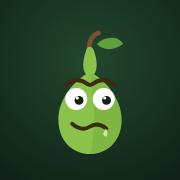
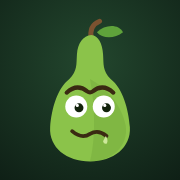
Reshape the mascot into a true pear silhouette
The body reads unmistakably as a pear now: a taller, slimmer neck rising
to the stem, a pinched waist, and a bigger, rounder bottom bulb. The face
moves down onto the bulb where it fits the new outline; the stem and leaf
sit up on the slim crown.

Everything attached follows the new geometry: unibrow, eyes/pupils (the
look-at-cursor and blink transforms are relative, so they carry over),
mouths and drool for all three moods, blush cheeks, sweat drop, rot spots
and stink lines, the waving arm, yawn mouth, sunglasses, party hat and
all four seasonal outfits — plus the CSS transform origins they animate
around. Lenticels re-scattered along the new edge, gloss highlight moved
onto the bulb.

The app icon SVG gets the same silhouette and the 180/192/512 PNGs are
re-rendered from it. Service worker cache v67. All 72 checks green.

Claude-Session: https://claude.ai/code/session_017d9cbJJ4cKEAZ38GrGQcBx

Changed region(s): [[0.2778, 0.0833, 0.7222, 0.9167]]

diff --git a/kulpio_app.html b/kulpio_app.html
@@ -128,7 +128,7 @@ button,select,.tab,.prod-item,.sheet-row,.set-row{touch-action:manipulation}
 .pear-eat{position:absolute;left:50%;top:-4%;font-size:22px;pointer-events:none;z-index:5;animation:eatIn .6s ease forwards}
 @keyframes eatIn{0%{opacity:0;transform:translate(-50%,-10px) scale(1.1)}30%{opacity:1}100%{opacity:0;transform:translate(-50%,48px) scale(.3)}}
 /* party hat + confetti when he celebrates clearing all expiring items */
-.assistant-icon .party-hat{opacity:0;transform-box:view-box;transform-origin:84px 92px;transform:scale(.4) rotate(-12deg);transition:opacity .3s ease,transform .35s cubic-bezier(.34,1.56,.64,1)}
+.assistant-icon .party-hat{opacity:0;transform-box:view-box;transform-origin:96px 64px;transform:scale(.4) rotate(-12deg);transition:opacity .3s ease,transform .35s cubic-bezier(.34,1.56,.64,1)}
 .assistant-icon.party .party-hat{opacity:1;transform:scale(1) rotate(0)}
 .confetti{position:absolute;left:50%;top:28%;width:8px;height:8px;border-radius:2px;pointer-events:none;z-index:7;animation:confettiFly 1.1s ease-out forwards;animation-delay:var(--d,0s)}
 @keyframes confettiFly{0%{opacity:0;transform:translate(-50%,0) rotate(0)}12%{opacity:1}100%{opacity:0;transform:translate(calc(-50% + var(--x,0px)),-72px) rotate(var(--r,180deg))}}
@@ -136,7 +136,7 @@ button,select,.tab,.prod-item,.sheet-row,.set-row{touch-action:manipulation}
 .pear-tear{position:absolute;left:44%;top:40%;font-size:15px;pointer-events:none;z-index:6;animation:tearDrop 1.2s ease-in forwards}
 @keyframes tearDrop{0%{opacity:0;transform:translateY(0) scale(.6)}25%{opacity:1}100%{opacity:.25;transform:translateY(44px) scale(1)}}
 /* sunglasses at a savings milestone */
-.assistant-icon .shades{opacity:0;transform-box:view-box;transform-origin:110px 122px;transform:translateY(-16px);transition:opacity .25s ease,transform .4s cubic-bezier(.34,1.56,.64,1)}
+.assistant-icon .shades{opacity:0;transform-box:view-box;transform-origin:110px 132px;transform:translateY(-16px);transition:opacity .25s ease,transform .4s cubic-bezier(.34,1.56,.64,1)}
 .assistant-icon.cool .shades{opacity:1;transform:translateY(0)}
 /* spin when you restyle him (accent / background) */
 .assistant-icon.spin{animation:pearSpin .7s ease}
@@ -214,7 +214,7 @@ button,select,.tab,.prod-item,.sheet-row,.set-row{touch-action:manipulation}
 .pear-bubble::after{content:"";position:absolute;top:100%;left:50%;transform:translateX(-50%);border:6px solid transparent;border-top-color:var(--surface-2)}
 .pear-spark{position:absolute;left:50%;top:18%;font-size:20px;pointer-events:none;z-index:6;animation:sparkUp .82s ease forwards}
 @keyframes sparkUp{0%{opacity:0;transform:translate(-50%,0) scale(.5)}25%{opacity:1}100%{opacity:0;transform:translate(-50%,-42px) scale(1.25)}}
-.pear-arm{opacity:0;transform-box:view-box;transform-origin:148px 150px}
+.pear-arm{opacity:0;transform-box:view-box;transform-origin:154px 156px}
 .assistant-icon.wave .pear-arm{animation:pearWave 1.7s ease}
 @keyframes pearWave{0%{opacity:0;transform:rotate(-6deg)}10%{opacity:1;transform:rotate(-26deg)}26%{transform:rotate(8deg)}42%{transform:rotate(-24deg)}58%{transform:rotate(8deg)}74%{transform:rotate(-22deg)}88%{opacity:1;transform:rotate(-8deg)}100%{opacity:0;transform:rotate(-6deg)}}
 .assistant-icon .eye{transform-box:fill-box;transform-origin:center}
@@ -649,114 +649,115 @@ button,select,.tab,.prod-item,.sheet-row,.set-row{touch-action:manipulation}
     <div class="pear-bubble" id="pearBubble" role="status" aria-live="polite"></div>
     <div class="pear-ground" aria-hidden="true"></div>
     <svg class="assistant-icon fresh" id="pearIcon" viewBox="0 0 220 220" role="button" tabindex="0" aria-label="Kulpio" onclick="pokePear()" onkeydown="if(event.key==='Enter'||event.key===' '){event.preventDefault();pokePear()}">
-      <!-- stem + leaf -->
-      <path d="M110 54 C107 40 112 30 122 26" fill="none" stroke="#7B5230" stroke-width="7" stroke-linecap="round"/>
-      <path d="M120 42 C132 30 152 30 158 42 C146 52 128 52 120 42 Z" fill="#5FA23B"/>
-      <path d="M122 43 Q140 39 157 40" fill="none" stroke="#437a2a" stroke-width="1.5" stroke-linecap="round"/>
-      <path d="M132 41 l5 5 M142 39 l5 4.5" fill="none" stroke="#437a2a" stroke-width="1.1" stroke-linecap="round"/>
-      <!-- pear body -->
-      <path class="pear-body" d="M110 48 C126 49 136 62 138 90 C140 114 158 128 160 158 C162 187 140 207 110 207 C80 207 58 187 60 158 C62 128 80 114 82 90 C84 62 94 49 110 48 Z"/>
-      <path class="pear-shade" d="M110 90 C130 100 152 124 158 158 C162 187 140 207 110 207 C118 178 118 130 110 90 Z" opacity=".22"/>
+      <!-- stem + leaf (up on the slim crown) -->
+      <path d="M112 34 C109 20 114 12 124 8" fill="none" stroke="#7B5230" stroke-width="7" stroke-linecap="round"/>
+      <path d="M120 24 C132 12 152 12 158 24 C146 34 128 34 120 24 Z" fill="#5FA23B"/>
+      <path d="M122 25 Q140 21 157 22" fill="none" stroke="#437a2a" stroke-width="1.5" stroke-linecap="round"/>
+      <path d="M132 23 l5 5 M142 21 l5 4.5" fill="none" stroke="#437a2a" stroke-width="1.1" stroke-linecap="round"/>
+      <!-- pear body: tall slim neck, a pinched waist, then a big round bottom -->
+      <path class="pear-body" d="M112 28 C122 29 128 40 129 56 C130 70 128 80 140 92 C158 106 166 136 168 162 C170 192 144 212 110 212 C76 212 50 192 52 162 C54 136 62 106 80 92 C92 80 90 70 91 56 C92 40 100 29 112 28 Z"/>
+      <path class="pear-shade" d="M110 92 C132 104 156 128 162 160 C166 190 142 212 110 212 C118 182 118 134 110 92 Z" opacity=".22"/>
       <!-- glossy highlight -->
-      <ellipse class="pear-gloss" cx="86" cy="102" rx="9" ry="14" fill="#ffffff" opacity=".17" transform="rotate(-16 86 102)"/>
+      <ellipse class="pear-gloss" cx="82" cy="122" rx="9" ry="15" fill="#ffffff" opacity=".17" transform="rotate(-14 82 122)"/>
       <!-- skin lenticels (little pear speckles), fixed colour so they read on any mood -->
       <g fill="#4a3a1e" opacity=".16">
-        <circle cx="76" cy="114" r="1.5"/><circle cx="144" cy="112" r="1.5"/>
-        <circle cx="68" cy="140" r="1.7"/><circle cx="152" cy="138" r="1.7"/>
-        <circle cx="64" cy="158" r="1.6"/><circle cx="156" cy="156" r="1.6"/>
-        <circle cx="84" cy="176" r="1.6"/><circle cx="136" cy="176" r="1.6"/>
-        <circle cx="102" cy="188" r="1.5"/><circle cx="120" cy="186" r="1.5"/>
-        <circle cx="110" cy="196" r="1.4"/>
+        <circle cx="108" cy="60" r="1.3"/><circle cx="118" cy="74" r="1.3"/>
+        <circle cx="72" cy="124" r="1.5"/><circle cx="148" cy="122" r="1.5"/>
+        <circle cx="64" cy="146" r="1.7"/><circle cx="156" cy="144" r="1.7"/>
+        <circle cx="60" cy="164" r="1.6"/><circle cx="160" cy="162" r="1.6"/>
+        <circle cx="84" cy="184" r="1.6"/><circle cx="136" cy="184" r="1.6"/>
+        <circle cx="102" cy="196" r="1.5"/><circle cx="120" cy="194" r="1.5"/>
+        <circle cx="110" cy="204" r="1.4"/>
       </g>
       <!-- unibrow (Rick-style, always on) -->
-      <path d="M74 102 Q90 88 106 100 Q110 103 114 100 Q130 88 146 102" fill="none" stroke="#3a2a12" stroke-width="6" stroke-linecap="round" stroke-linejoin="round"/>
+      <path d="M76 112 Q91 98 106 110 Q110 113 114 110 Q129 98 144 112" fill="none" stroke="#3a2a12" stroke-width="6" stroke-linecap="round" stroke-linejoin="round"/>
       <!-- blush cheeks: fade in when you tickle (tap) him a lot -->
       <g class="cheeks">
-        <ellipse cx="80" cy="146" rx="11" ry="7" fill="#ff7a90"/>
-        <ellipse cx="140" cy="146" rx="11" ry="7" fill="#ff7a90"/>
+        <ellipse cx="80" cy="156" rx="11" ry="7" fill="#ff7a90"/>
+        <ellipse cx="140" cy="156" rx="11" ry="7" fill="#ff7a90"/>
       </g>
       <!-- FRESH: smug, drooling grin -->
       <g class="mood mood-fresh">
-        <g class="eye"><circle cx="90" cy="122" r="16" fill="#fff"/><circle class="pupil" cx="94" cy="124" r="6.5" fill="#12220c"/><circle cx="91.5" cy="120.5" r="2.3" fill="#fff"/></g>
-        <g class="eye"><circle cx="130" cy="122" r="16" fill="#fff"/><circle class="pupil" cx="134" cy="124" r="6.5" fill="#12220c"/><circle cx="131.5" cy="120.5" r="2.3" fill="#fff"/></g>
-        <path class="mouth" d="M84 158 Q98 170 110 162 Q122 155 134 165" fill="none" stroke="#3a2a12" stroke-width="5.5" stroke-linecap="round"/>
-        <path class="mouth" d="M133 165 q4 6 1.5 11 q-4.5 1.5 -5.5 -3.5 Z" fill="#cde89b"/>
+        <g class="eye"><circle cx="90" cy="132" r="16" fill="#fff"/><circle class="pupil" cx="94" cy="134" r="6.5" fill="#12220c"/><circle cx="91.5" cy="130.5" r="2.3" fill="#fff"/></g>
+        <g class="eye"><circle cx="130" cy="132" r="16" fill="#fff"/><circle class="pupil" cx="134" cy="134" r="6.5" fill="#12220c"/><circle cx="131.5" cy="130.5" r="2.3" fill="#fff"/></g>
+        <path class="mouth" d="M84 168 Q98 180 110 172 Q122 165 134 175" fill="none" stroke="#3a2a12" stroke-width="5.5" stroke-linecap="round"/>
+        <path class="mouth" d="M133 175 q4 6 1.5 11 q-4.5 1.5 -5.5 -3.5 Z" fill="#cde89b"/>
       </g>
       <!-- WARN: worried, sweating squiggle -->
       <g class="mood mood-warn">
-        <g class="eye"><circle cx="90" cy="122" r="16" fill="#fff"/><circle class="pupil" cx="90" cy="125" r="6" fill="#12220c"/></g>
-        <g class="eye"><circle cx="130" cy="122" r="16" fill="#fff"/><circle class="pupil" cx="130" cy="125" r="6" fill="#12220c"/></g>
-        <path class="mouth" d="M84 164 Q92 156 100 163 Q108 170 116 163 Q124 156 132 164" fill="none" stroke="#4a3410" stroke-width="5" stroke-linecap="round"/>
-        <path d="M152 92 c-6 9 -9 13 -9 17 a9 9 0 0 0 18 0 c0 -4 -3 -8 -9 -17 Z" fill="#7EC8F2"/>
+        <g class="eye"><circle cx="90" cy="132" r="16" fill="#fff"/><circle class="pupil" cx="90" cy="135" r="6" fill="#12220c"/></g>
+        <g class="eye"><circle cx="130" cy="132" r="16" fill="#fff"/><circle class="pupil" cx="130" cy="135" r="6" fill="#12220c"/></g>
+        <path class="mouth" d="M84 174 Q92 166 100 173 Q108 180 116 173 Q124 166 132 174" fill="none" stroke="#4a3410" stroke-width="5" stroke-linecap="round"/>
+        <path d="M154 106 c-6 9 -9 13 -9 17 a9 9 0 0 0 18 0 c0 -4 -3 -8 -9 -17 Z" fill="#7EC8F2"/>
       </g>
       <!-- ROTTEN: dead X-eyes, queasy tongue, spots + stink -->
       <g class="mood mood-rotten">
         <g stroke="#2b1d0b" stroke-width="5" stroke-linecap="round">
-          <line x1="82" y1="114" x2="98" y2="130"/><line x1="98" y1="114" x2="82" y2="130"/>
-          <line x1="122" y1="114" x2="138" y2="130"/><line x1="138" y1="114" x2="122" y2="130"/>
+          <line x1="82" y1="124" x2="98" y2="140"/><line x1="98" y1="124" x2="82" y2="140"/>
+          <line x1="122" y1="124" x2="138" y2="140"/><line x1="138" y1="124" x2="122" y2="140"/>
         </g>
-        <path class="mouth" d="M84 162 Q96 172 108 163 Q120 154 134 166" fill="none" stroke="#2b1d0b" stroke-width="5" stroke-linecap="round"/>
-        <path class="mouth" d="M105 165 q6 15 12 2 Z" fill="#7f8f38"/>
+        <path class="mouth" d="M84 172 Q96 182 108 173 Q120 164 134 176" fill="none" stroke="#2b1d0b" stroke-width="5" stroke-linecap="round"/>
+        <path class="mouth" d="M105 175 q6 15 12 2 Z" fill="#7f8f38"/>
         <g fill="#5a4a25" opacity=".85">
-          <circle cx="86" cy="170" r="8"/><circle cx="128" cy="178" r="10"/>
-          <circle cx="104" cy="190" r="6"/><circle cx="142" cy="150" r="7"/>
+          <circle cx="84" cy="178" r="8"/><circle cx="128" cy="186" r="10"/>
+          <circle cx="104" cy="198" r="6"/><circle cx="146" cy="158" r="7"/>
         </g>
-        <path d="M150 68 q7 -8 0 -16 q-7 -8 0 -16" fill="none" stroke="#9aa06a" stroke-width="3" stroke-linecap="round" opacity=".7"/>
-        <path d="M168 76 q7 -8 0 -16 q-7 -8 0 -16" fill="none" stroke="#9aa06a" stroke-width="3" stroke-linecap="round" opacity=".5"/>
+        <path d="M144 52 q7 -8 0 -16 q-7 -8 0 -16" fill="none" stroke="#9aa06a" stroke-width="3" stroke-linecap="round" opacity=".7"/>
+        <path d="M162 60 q7 -8 0 -16 q-7 -8 0 -16" fill="none" stroke="#9aa06a" stroke-width="3" stroke-linecap="round" opacity=".5"/>
       </g>
       <!-- waving arm: greets you when the app opens, then tucks away -->
       <g class="pear-arm">
-        <path class="arm-limb" d="M146 152 Q170 140 182 116" fill="none" stroke-width="13" stroke-linecap="round"/>
-        <circle class="arm-hand" cx="184" cy="112" r="12"/>
-        <path class="arm-fingers" d="M176 105 l3 -8 M185 102 l1 -9 M194 105 l6 -6" fill="none" stroke-width="5" stroke-linecap="round"/>
+        <path class="arm-limb" d="M152 158 Q176 146 186 122" fill="none" stroke-width="13" stroke-linecap="round"/>
+        <circle class="arm-hand" cx="188" cy="118" r="12"/>
+        <path class="arm-fingers" d="M180 111 l3 -8 M189 108 l1 -9 M198 111 l6 -6" fill="none" stroke-width="5" stroke-linecap="round"/>
       </g>
       <!-- yawn mouth: plays when the fridge is empty -->
       <g class="yawn-mouth">
-        <ellipse cx="110" cy="165" rx="16" ry="18" fill="#3a2a12"/>
-        <ellipse cx="110" cy="174" rx="10" ry="7" fill="#7f8f38"/>
+        <ellipse cx="110" cy="175" rx="16" ry="18" fill="#3a2a12"/>
+        <ellipse cx="110" cy="184" rx="10" ry="7" fill="#7f8f38"/>
       </g>
       <!-- party hat: pops on when you clear out all expiring items -->
       <g class="party-hat">
-        <polygon points="84,50 70,94 102,88" fill="#ff5aa5"/>
-        <polygon points="84,50 78,66 88,64" fill="#ffd166"/>
-        <circle cx="84" cy="49" r="6" fill="#4de1c1"/>
-        <circle cx="80" cy="76" r="3.4" fill="#fff" opacity=".95"/>
-        <circle cx="92" cy="83" r="3.4" fill="#7EC8F2" opacity=".95"/>
+        <polygon points="96,22 82,66 114,60" fill="#ff5aa5"/>
+        <polygon points="96,22 90,38 100,36" fill="#ffd166"/>
+        <circle cx="96" cy="21" r="6" fill="#4de1c1"/>
+        <circle cx="92" cy="48" r="3.4" fill="#fff" opacity=".95"/>
+        <circle cx="104" cy="55" r="3.4" fill="#7EC8F2" opacity=".95"/>
       </g>
       <!-- sunglasses: slide on at a savings milestone -->
       <g class="shades">
-        <rect x="73" y="112" width="34" height="19" rx="7" fill="#15151b"/>
-        <rect x="113" y="112" width="34" height="19" rx="7" fill="#15151b"/>
-        <rect x="105" y="118" width="10" height="4" rx="2" fill="#15151b"/>
-        <path d="M73 117 L56 110" fill="none" stroke="#15151b" stroke-width="4" stroke-linecap="round"/>
-        <path d="M147 117 L164 110" fill="none" stroke="#15151b" stroke-width="4" stroke-linecap="round"/>
-        <rect x="78" y="116" width="9" height="4" rx="2" fill="#fff" opacity=".22"/>
-        <rect x="118" y="116" width="9" height="4" rx="2" fill="#fff" opacity=".22"/>
+        <rect x="73" y="122" width="34" height="19" rx="7" fill="#15151b"/>
+        <rect x="113" y="122" width="34" height="19" rx="7" fill="#15151b"/>
+        <rect x="105" y="128" width="10" height="4" rx="2" fill="#15151b"/>
+        <path d="M73 127 L56 120" fill="none" stroke="#15151b" stroke-width="4" stroke-linecap="round"/>
+        <path d="M147 127 L164 120" fill="none" stroke="#15151b" stroke-width="4" stroke-linecap="round"/>
+        <rect x="78" y="126" width="9" height="4" rx="2" fill="#fff" opacity=".22"/>
+        <rect x="118" y="126" width="9" height="4" rx="2" fill="#fff" opacity=".22"/>
       </g>
       <!-- seasonal outfits, shown by the calendar date -->
       <g class="summer">
-        <path d="M84 64 Q106 32 128 64 Z" fill="#f0d38a"/>
-        <ellipse cx="106" cy="65" rx="42" ry="9" fill="#e3bd63"/>
-        <path d="M85 63 Q106 55 127 63" fill="none" stroke="#ff8fb0" stroke-width="6" stroke-linecap="round"/>
+        <path d="M90 46 Q110 16 130 46 Z" fill="#f0d38a"/>
+        <ellipse cx="110" cy="47" rx="38" ry="8" fill="#e3bd63"/>
+        <path d="M91 45 Q110 37 129 45" fill="none" stroke="#ff8fb0" stroke-width="6" stroke-linecap="round"/>
       </g>
       <g class="flower">
-        <circle cx="150" cy="38" r="4.5" fill="#ff8fb0"/>
-        <circle cx="159" cy="45" r="4.5" fill="#ff8fb0"/>
-        <circle cx="155" cy="55" r="4.5" fill="#ff8fb0"/>
-        <circle cx="144" cy="55" r="4.5" fill="#ff8fb0"/>
-        <circle cx="141" cy="45" r="4.5" fill="#ff8fb0"/>
-        <circle cx="150" cy="47" r="5" fill="#ffd166"/>
+        <circle cx="140" cy="30" r="4.5" fill="#ff8fb0"/>
+        <circle cx="149" cy="37" r="4.5" fill="#ff8fb0"/>
+        <circle cx="145" cy="47" r="4.5" fill="#ff8fb0"/>
+        <circle cx="134" cy="47" r="4.5" fill="#ff8fb0"/>
+        <circle cx="131" cy="37" r="4.5" fill="#ff8fb0"/>
+        <circle cx="140" cy="39" r="5" fill="#ffd166"/>
       </g>
       <g class="spooky">
-        <ellipse cx="120" cy="60" rx="34" ry="8" fill="#241830"/>
-        <polygon points="122,20 100,60 144,60" fill="#3a2a4d"/>
-        <rect x="108" y="50" width="28" height="8" fill="#7c5cbf" transform="rotate(-6 122 54)"/>
-        <rect x="118" y="49" width="8" height="9" fill="#ffd166" transform="rotate(-6 122 54)"/>
+        <ellipse cx="112" cy="42" rx="30" ry="8" fill="#241830"/>
+        <polygon points="114,4 94,42 134,42" fill="#3a2a4d"/>
+        <rect x="100" y="32" width="28" height="8" fill="#7c5cbf" transform="rotate(-6 114 36)"/>
+        <rect x="110" y="31" width="8" height="9" fill="#ffd166" transform="rotate(-6 114 36)"/>
       </g>
       <g class="santa-hat">
-        <path d="M72 62 Q96 28 128 44 L120 60 Q98 54 78 70 Z" fill="#d7263d"/>
-        <ellipse cx="90" cy="66" rx="26" ry="8" fill="#fff"/>
-        <circle cx="130" cy="42" r="8" fill="#fff"/>
+        <path d="M84 44 Q104 12 132 26 L124 42 Q104 36 88 52 Z" fill="#d7263d"/>
+        <ellipse cx="98" cy="48" rx="22" ry="8" fill="#fff"/>
+        <circle cx="132" cy="24" r="8" fill="#fff"/>
       </g>
     </svg>
     </div>

diff --git a/service-worker.js b/service-worker.js
@@ -1,4 +1,4 @@
-const CACHE_NAME = "kulpio-v66";
+const CACHE_NAME = "kulpio-v67";
 const APP_FILES = [
   "./",
   "./index.html",